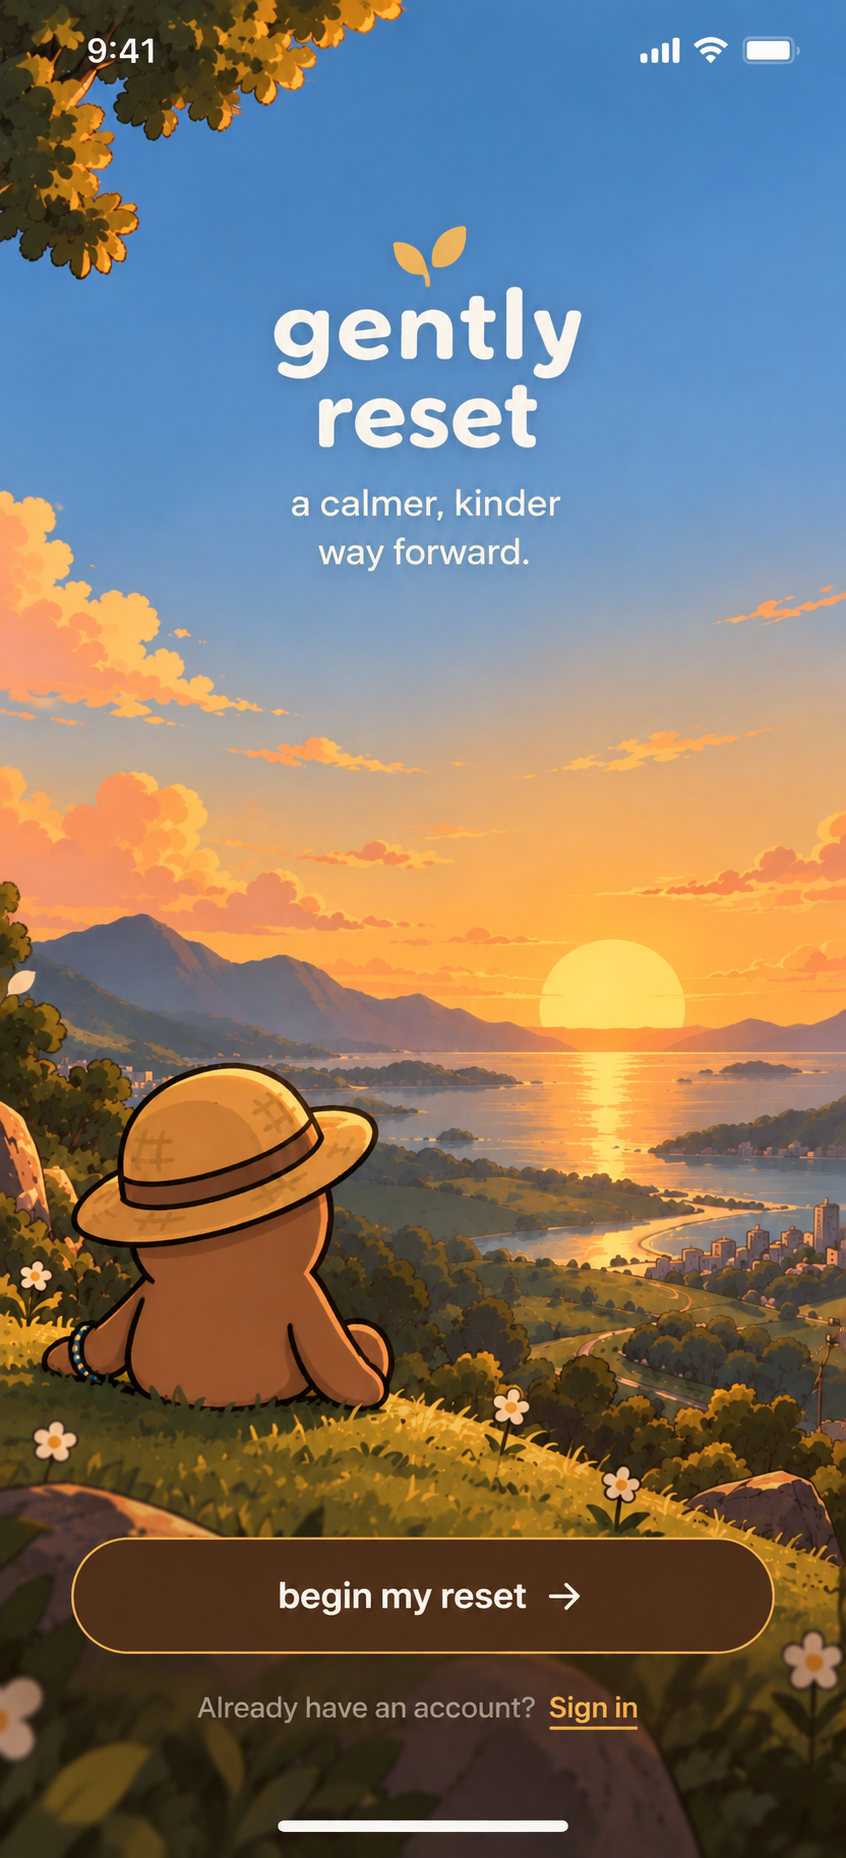
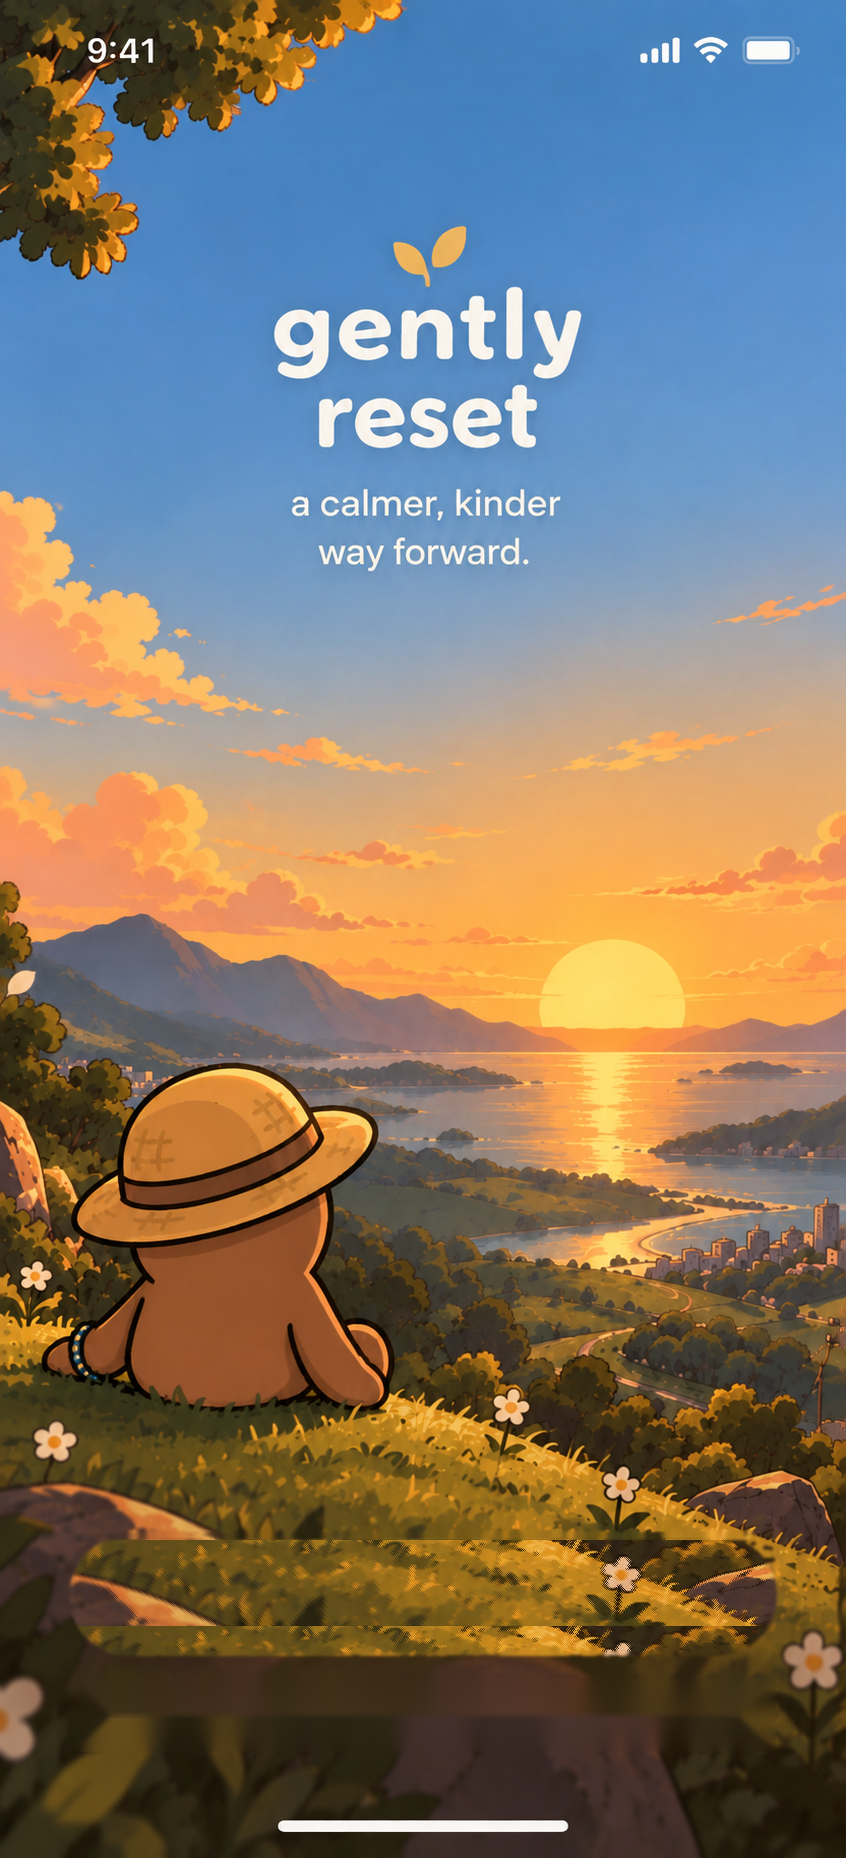
Rebuild welcome from the mockup with a real CTA.
Remove the painted begin-my-reset and sign-in from the landscape art, then place the pressable button and a live sign-in row in that same spot.

Changed region(s): [[0.0615, 0.8116, 0.922, 0.9365], [0.8913, 0.9053, 0.922, 0.9365], [0.0922, 0.9365, 0.1229, 0.9677]]

diff --git a/src/features/onboarding/screens/WelcomeScreen.tsx b/src/features/onboarding/screens/WelcomeScreen.tsx
@@ -1,5 +1,5 @@
 import { useState } from 'react';
-import { Image, Platform, Pressable, StyleSheet, Text, View } from 'react-native';
+import { Image, Pressable, StyleSheet, Text, View } from 'react-native';
 import { StatusBar } from 'expo-status-bar';
 import { useSafeAreaInsets } from 'react-native-safe-area-context';
 
@@ -44,7 +44,7 @@ export function WelcomeScreen({ step }: WelcomeScreenProps) {
         accessibilityLabel={spokenTitle}
         style={styles.headerHit}
       />
-      <View style={[styles.actions, { paddingBottom: Math.max(insets.bottom, spacing.sm) }]}>
+      <View style={[styles.actions, { paddingBottom: Math.max(insets.bottom, spacing.xl) }]}>
         <PrimaryButton label={step.ctaLabel} onPress={goToNext} />
         {signInPrompt && signInLabel ? (
           <Pressable
@@ -76,16 +76,12 @@ const styles = StyleSheet.create({
   root: {
     flex: 1,
     overflow: 'hidden',
-    backgroundColor: colors.accent.blue,
+    backgroundColor: colors.background.sky,
   },
   background: {
-    position: 'absolute',
-    top: 0,
-    right: 0,
-    left: 0,
-    height: '128%',
+    ...StyleSheet.absoluteFill,
     width: '100%',
-    ...(Platform.OS === 'web' ? { objectPosition: 'top' } : null),
+    height: '100%',
   },
   headerHit: {
     ...StyleSheet.absoluteFill,
@@ -97,7 +93,7 @@ const styles = StyleSheet.create({
     right: 0,
     bottom: 0,
     paddingHorizontal: spacing.lg,
-    gap: spacing.xs,
+    gap: spacing.sm,
   },
   signInRow: {
     minHeight: spacing.hitTarget,

diff --git a/src/components/ui/Button/PrimaryButton.tsx b/src/components/ui/Button/PrimaryButton.tsx
@@ -137,19 +137,19 @@ const styles = StyleSheet.create({
   lip: {
     ...StyleSheet.absoluteFill,
     top: motion.offset.press,
-    borderRadius: radius.xxl,
+    borderRadius: radius.pill,
     backgroundColor: colors.action.primaryBackgroundPressed,
   },
   shadow: {
     ...StyleSheet.absoluteFill,
     top: motion.offset.press,
-    borderRadius: radius.xxl,
+    borderRadius: radius.pill,
     backgroundColor: colors.action.primaryBackgroundPressed,
     ...shadows.button,
   },
   face: {
     minHeight: 56,
-    borderRadius: radius.xxl,
+    borderRadius: radius.pill,
     alignItems: 'center',
     justifyContent: 'center',
     paddingHorizontal: spacing.lg,
